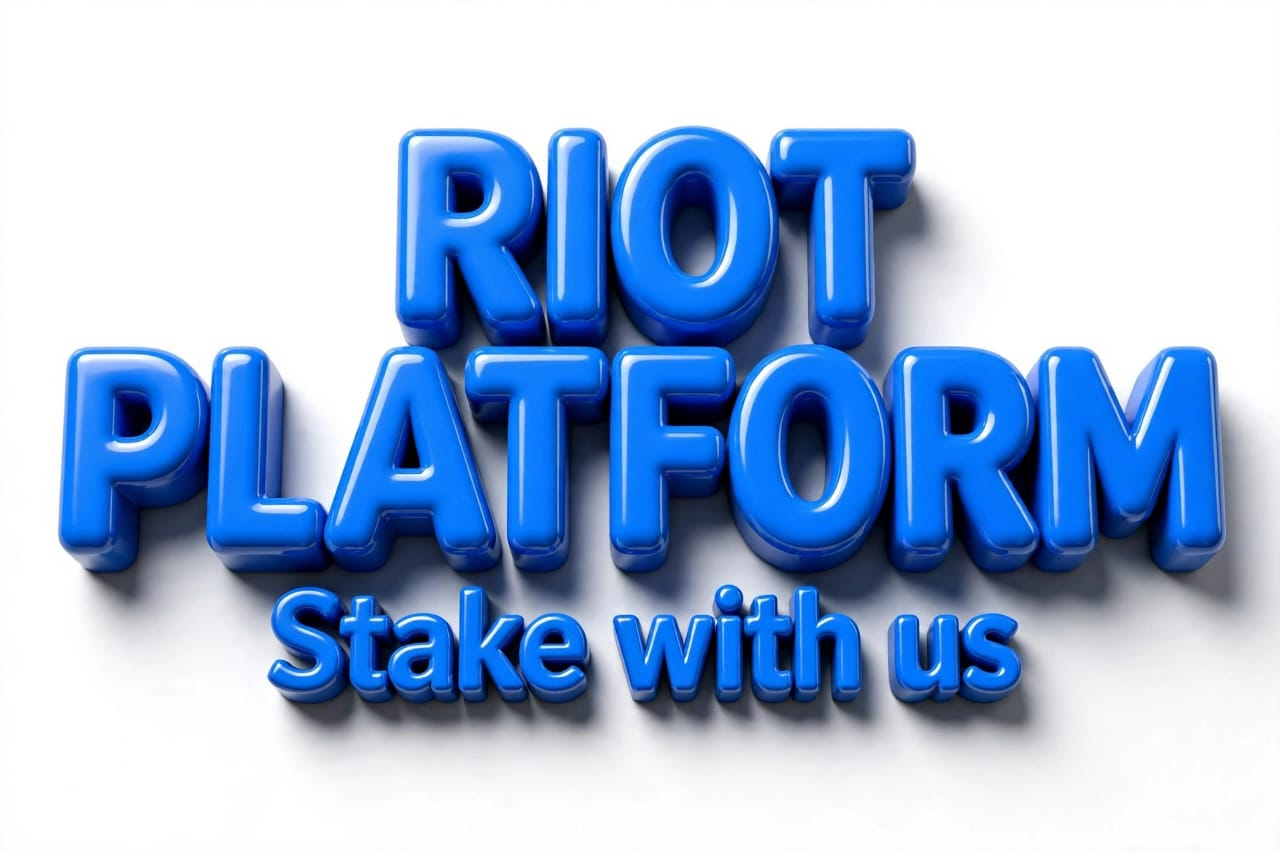
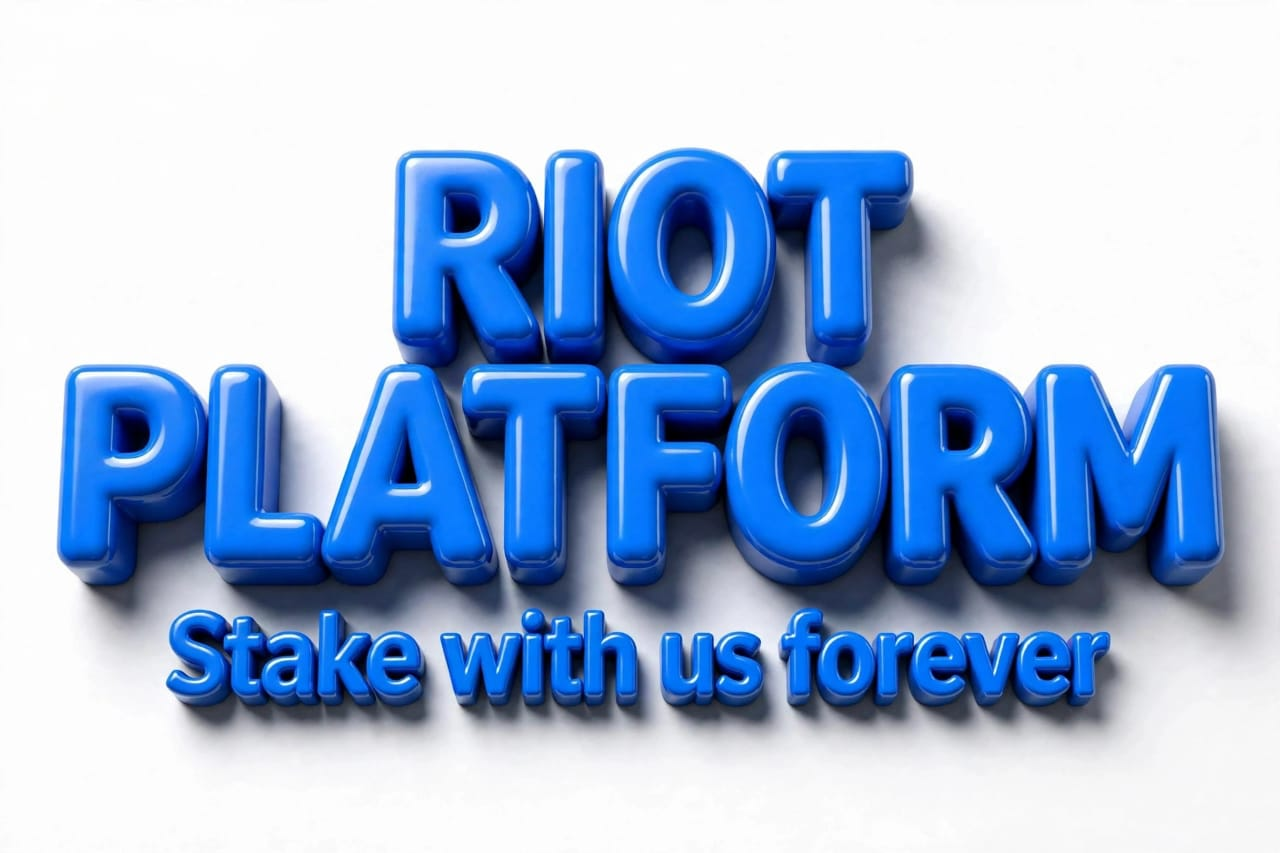
fix tailwind v4 postcss

diff --git a/app/page.js b/app/page.js
@@ -4,7 +4,7 @@ export default function Home(){
  return (
   <div className="min-h-screen bg-white flex flex-col items-center justify-center px-6">
    <h1 className="text-[32px] font-black text-[#0A84FF] tracking-wide leading-none">RIOT PLATFORM</h1>
-   <p className="text-[15px] font-bold text-[#0A84FF] mt-1">Stake with us.</p>
+   <p className="text-[15px] font-bold text-[#0A84FF] mt-1">Stake with us forever.</p>
    
    <Link 
      href="/register" 
